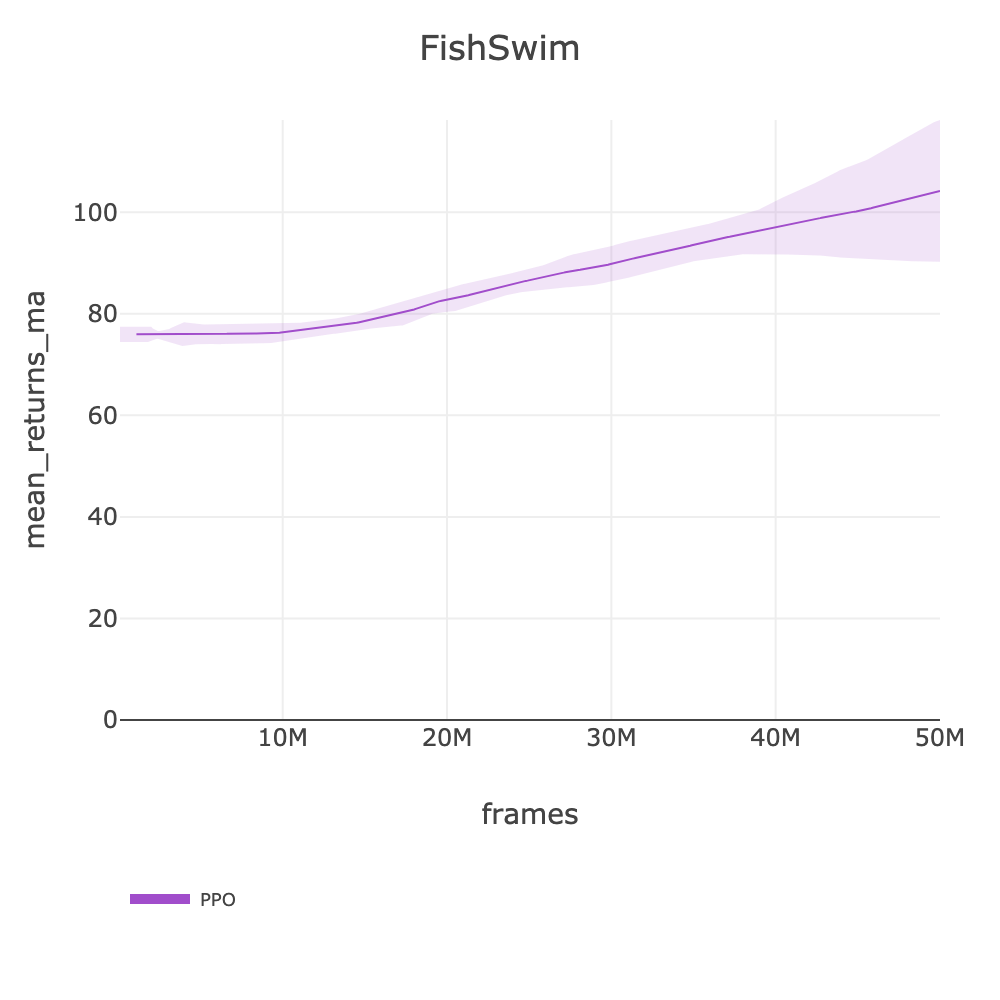
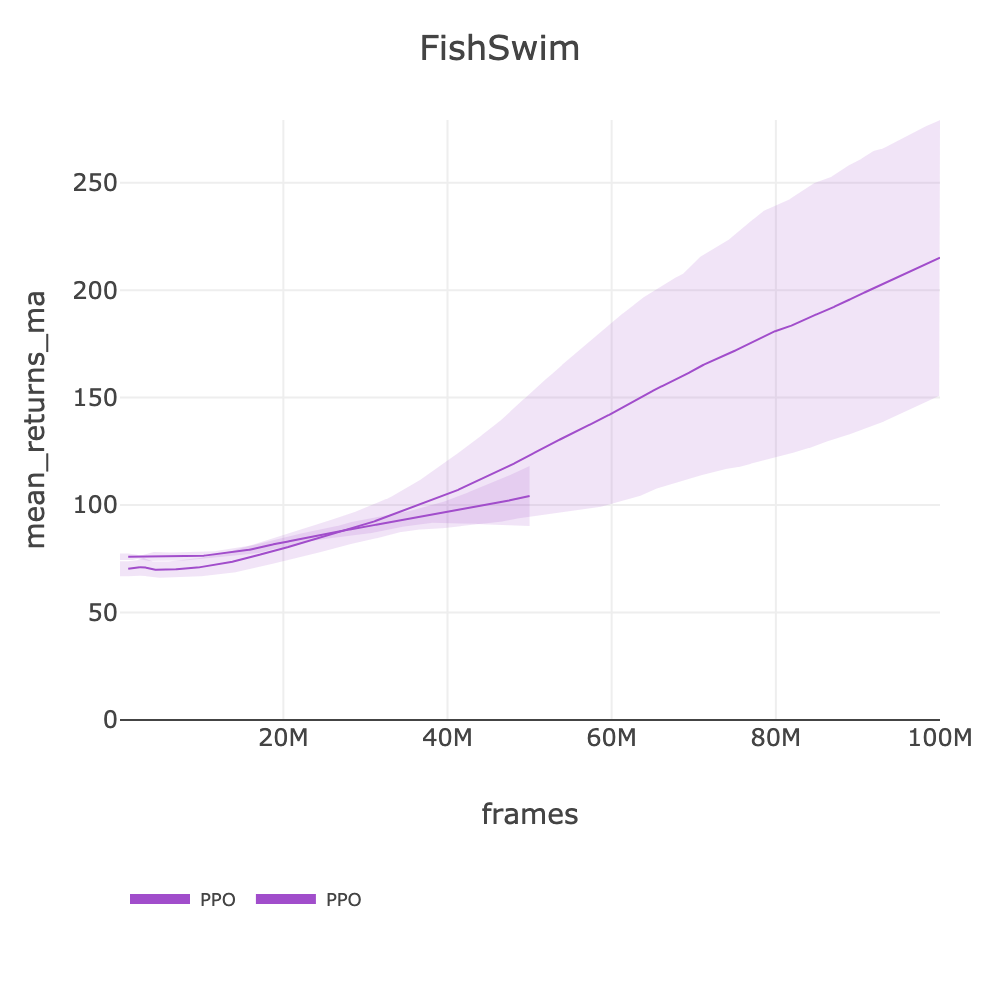
feat: intake PPO FishSwim (215, ❌) + HopperStand (224, ✅) + HumanoidRun (4, ❌) + HumanoidWalk (11, ❌)

diff --git a/docs/BENCHMARKS.md b/docs/BENCHMARKS.md
@@ -924,22 +924,22 @@ source .env && uv run slm-lab run-remote --gpu \
 | playground/FingerTurnHard | PPO | ❌ | 455.30 | ppo_playground_v2 | [ppo_playground_v2_fingerturnhard_2026_03_11_182615](https://huggingface.co/datasets/SLM-Lab/benchmark-dev/tree/main/data/ppo_playground_v2_fingerturnhard_2026_03_11_182615) | 950 | 16010 | 100M | 1h 44m |
 | | CrossQ | 🔄 | - | crossq_playground | - | | - | - | - |
 | | SAC | 🔄 | - | sac_playground | - | | - | - | - |
-| playground/FishSwim | PPO | ❌ | 104.20 | ppo_playground | [ppo_playground_fishswim_2026_03_11_142859](https://huggingface.co/datasets/SLM-Lab/benchmark-dev/tree/main/data/ppo_playground_fishswim_2026_03_11_142859) | 650 | 10010 | 50M | 1h 23m |
+| playground/FishSwim | PPO | ❌ | 215.09 | ppo_playground | [ppo_playground_v2_fishswim_2026_03_11_193403](https://huggingface.co/datasets/SLM-Lab/benchmark-dev/tree/main/data/ppo_playground_v2_fishswim_2026_03_11_193403) | 650 | 10870 | 100M | 2h 33m |
 | | CrossQ | 🔄 | - | crossq_playground | - | | - | - | - |
 | | SAC | 🔄 | - | sac_playground | - | | - | - | - |
 | playground/HopperHop | PPO | 🔄 | - | ppo_playground | - | ~2 | - | - | - |
 | | CrossQ | 🔄 | - | crossq_playground | - | | - | - | - |
 | | SAC | 🔄 | - | sac_playground_hard | - | | - | - | - |
-| playground/HopperStand | PPO | ❌ | 2.87 | ppo_playground | [ppo_playground_hopperstand_2026_03_11_095253](https://huggingface.co/datasets/SLM-Lab/benchmark-dev/tree/main/data/ppo_playground_hopperstand_2026_03_11_095253) | ~70 | 10750 | 100M | 2h 34m |
+| playground/HopperStand | PPO | ✅ | 224.18 | ppo_playground_loco | [ppo_playground_loco_v2_hopperstand_2026_03_11_193434](https://huggingface.co/datasets/SLM-Lab/benchmark-dev/tree/main/data/ppo_playground_loco_v2_hopperstand_2026_03_11_193434) | ~70 | 22560 | 100M | 1h 14m |
 | | CrossQ | 🔄 | - | crossq_playground | - | | - | - | - |
 | | SAC | 🔄 | - | sac_playground | - | | - | - | - |
-| playground/HumanoidRun | PPO | ❌ | 3.81 | ppo_playground | [ppo_playground_humanoidrun_2026_03_11_152710](https://huggingface.co/datasets/SLM-Lab/benchmark-dev/tree/main/data/ppo_playground_humanoidrun_2026_03_11_152710) | 130 | 13900 | 100M | 2h 0m |
+| playground/HumanoidRun | PPO | ❌ | 4.26 | ppo_playground | [ppo_playground_v2_humanoidrun_2026_03_11_190714](https://huggingface.co/datasets/SLM-Lab/benchmark-dev/tree/main/data/ppo_playground_v2_humanoidrun_2026_03_11_190714) | 130 | 10360 | 100M | 2h 41m |
 | | CrossQ | 🔄 | - | crossq_playground_vhard | - | | - | - | - |
 | | SAC | 🔄 | - | sac_playground | - | | - | - | - |
 | playground/HumanoidStand | PPO | ❌ | 28.59 | ppo_playground_loco | [ppo_playground_loco_v2_humanoidstand_2026_03_11_182722](https://huggingface.co/datasets/SLM-Lab/benchmark-dev/tree/main/data/ppo_playground_loco_v2_humanoidstand_2026_03_11_182722) | 700 | 13910 | 100M | 2h 0m |
 | | CrossQ | 🔄 | - | crossq_playground_vhard | - | | - | - | - |
 | | SAC | 🔄 | - | sac_playground | - | | - | - | - |
-| playground/HumanoidWalk | PPO | ❌ | 9.20 | ppo_playground | [ppo_playground_humanoidwalk_2026_03_11_152704](https://huggingface.co/datasets/SLM-Lab/benchmark-dev/tree/main/data/ppo_playground_humanoidwalk_2026_03_11_152704) | 500 | 11570 | 100M | 2h 24m |
+| playground/HumanoidWalk | PPO | ❌ | 10.72 | ppo_playground | [ppo_playground_v2_humanoidwalk_2026_03_11_191943](https://huggingface.co/datasets/SLM-Lab/benchmark-dev/tree/main/data/ppo_playground_v2_humanoidwalk_2026_03_11_191943) | 500 | 11850 | 100M | 2h 21m |
 | | CrossQ | 🔄 | - | crossq_playground_vhard | - | | - | - | - |
 | | SAC | 🔄 | - | sac_playground | - | | - | - | - |
 | playground/PendulumSwingup | PPO | ✅ | 395.31 | ppo_playground | [ppo_playground_pendulumswingup_2026_03_11_142901](https://huggingface.co/datasets/SLM-Lab/benchmark-dev/tree/main/data/ppo_playground_pendulumswingup_2026_03_11_142901) | ~70 | 12080 | 100M | 2h 18m |
